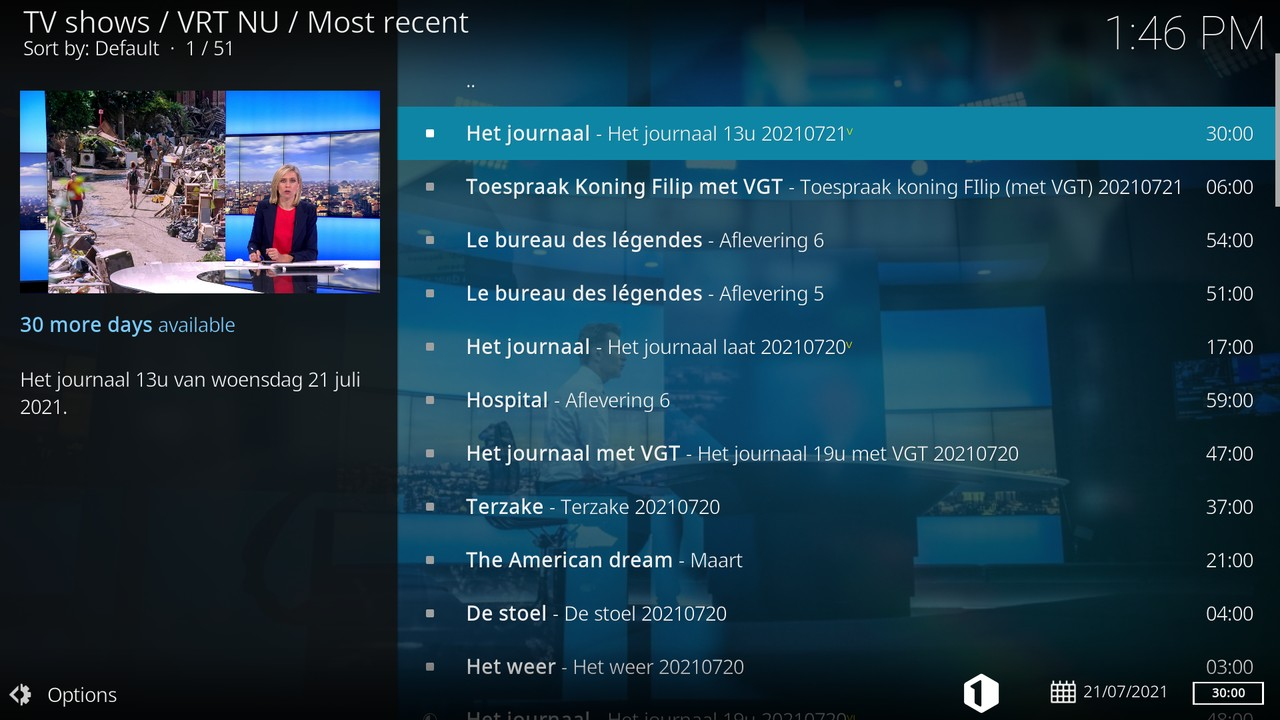
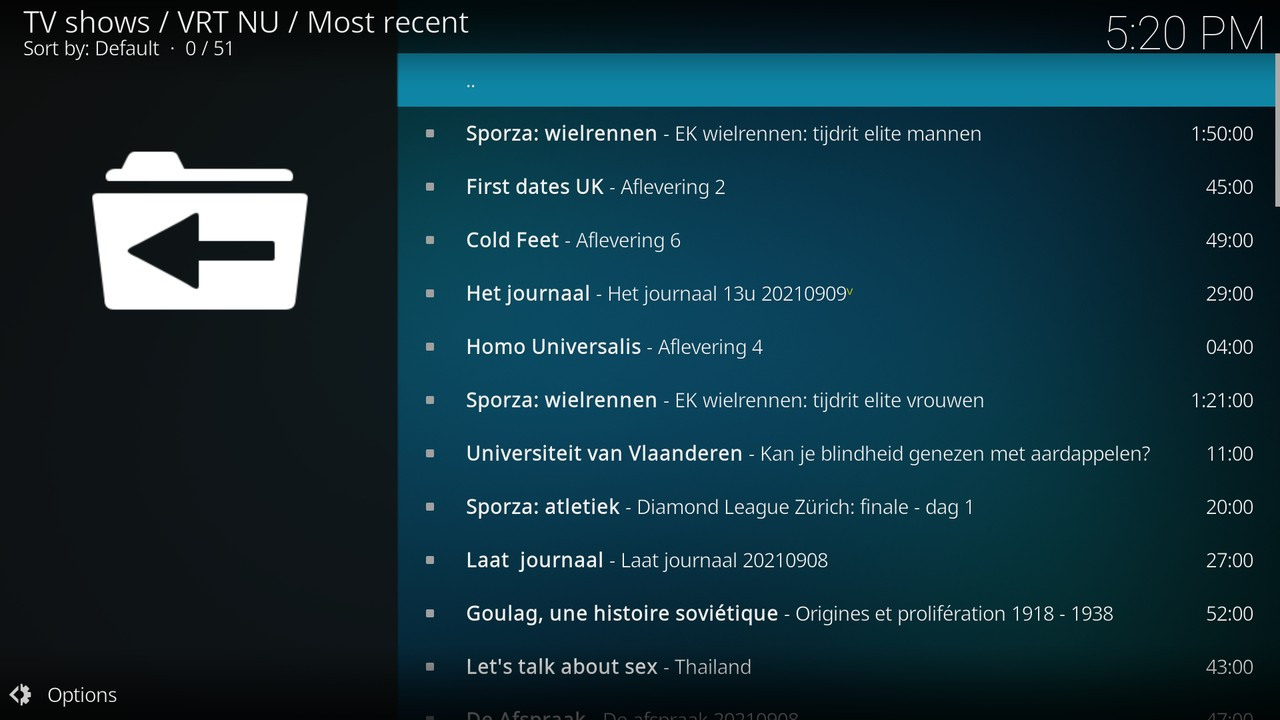
Prepare for v2.5.5 release

diff --git a/README.md b/README.md
@@ -59,6 +59,9 @@ leave a message at [our Facebook page](https://facebook.com/kodivrtnu/).
 </table>
 
 ## Releases
+### v2.5.5 (2021-09-09)
+- Fix broken menu listings (@mediaminister)
+
 ### v2.5.4 (2021-07-21)
 - Fix login (@mediaminister)
 - Use Widevine DRM by default (@mediaminister)
